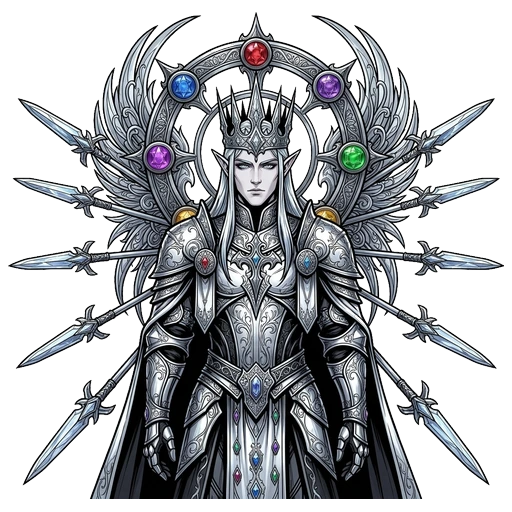
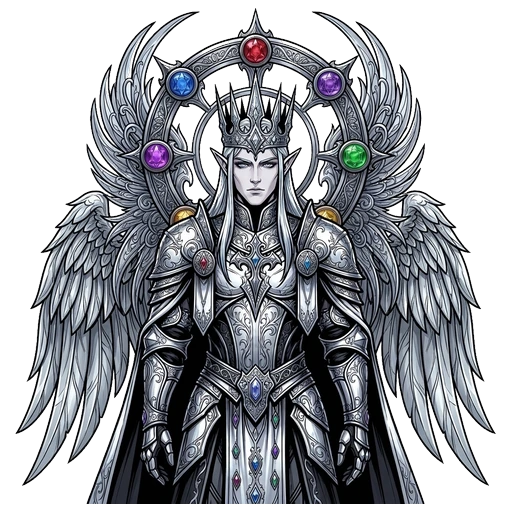
art(cards): remove background spears from Thalassion (neutral_177) and refine cutout

diff --git a/src/data/cardArtPrompts.ts b/src/data/cardArtPrompts.ts
@@ -1065,5 +1065,5 @@ export const CARD_ART_PROMPTS: Record<string, string> = {
   "red_178_kaelith_principe_asas_fenix": "2D Dark Fantasy gothic baroque cel-shaded ink illustration, sovereign Flame-Elf Prince Kaelith with cascading vermilion-scarlet hair, golden crescent crown, four colossal blazing golden-crimson phoenix wings, ivory-and-crimson royal vestments, and a phoenix-spirit companion, unleashing a solar fire-nova bow shot on pure white background.",
   "neutral_175_emissario_lamina_espelho": "2D Dark Fantasy gothic baroque cel-shaded ink illustration, aristocratic Silver-Platinum Royal Elf envoy with silver crown, pale violet eyes, and ornate white-mithril and obsidian-trimmed armor cape, commanding floating diamond-faceted mirror-daggers and a prismatic runic sigil on pure white background.",
   "neutral_176_mestre_arqueiro_guarda_cristalina": "2D Dark Fantasy gothic baroque cel-shaded ink illustration, elite Crystal-Guard Royal Elf master archer in gleaming platinum-mithril filigree plate with subtle five-color gemstone accents, drawing a monumentalfaceted diamond-and-platinum greatbow firing a prismatic crystal arrow on pure white background.",
-  "neutral_177_thalassion_alto_rei_concilio_elfico": "2D Dark Fantasy gothic baroque cel-shaded ink illustration, supreme High-King Thalassion of the Elven Council with platinum hair, tall silver crown inset with five chromatic gems, radiant white-mithril plate armor, silver-feathered wings, and ten levitating crystal-spear blades around a prismatic council halo on pure white background."
+  "neutral_177_thalassion_alto_rei_concilio_elfico": "2D Dark Fantasy gothic baroque cel-shaded ink illustration, supreme High-King Thalassion of the Elven Council with platinum hair, tall silver crown inset with five chromatic gems, radiant white-mithril plate armor, and sculpted silver-feathered wings framed by a prismatic council halo on pure white background."
 };

diff --git a/src/components/CardView.tsx b/src/components/CardView.tsx
@@ -494,7 +494,7 @@ export const CardView: React.FC<CardViewProps> = ({
           <div className={`cpa-token-art aura-${displayCard.domain}`}>
             {!imgError && displayCard.imagePath ? (
               <img
-                src={`${displayCard.imagePath}?v=58`}
+                src={`${displayCard.imagePath}?v=59`}
                 alt={displayName}
                 className="cpa-token-img"
                 onError={() => setImgError(true)}
@@ -665,7 +665,7 @@ export const CardView: React.FC<CardViewProps> = ({
 
           {!imgError && displayCard.imagePath ? (
             <img
-              src={`${displayCard.imagePath}?v=58`}
+              src={`${displayCard.imagePath}?v=59`}
               alt={displayName}
               className="card-cutout-img"
               onError={() => setImgError(true)}

diff --git a/public/sw.js b/public/sw.js
@@ -1,4 +1,4 @@
-const CACHE_VERSION = 'chromatic-pact-v71';
+const CACHE_VERSION = 'chromatic-pact-v72';
 const ASSET_CACHE = `${CACHE_VERSION}-assets`;
 
 const PRECACHE_URLS = [
